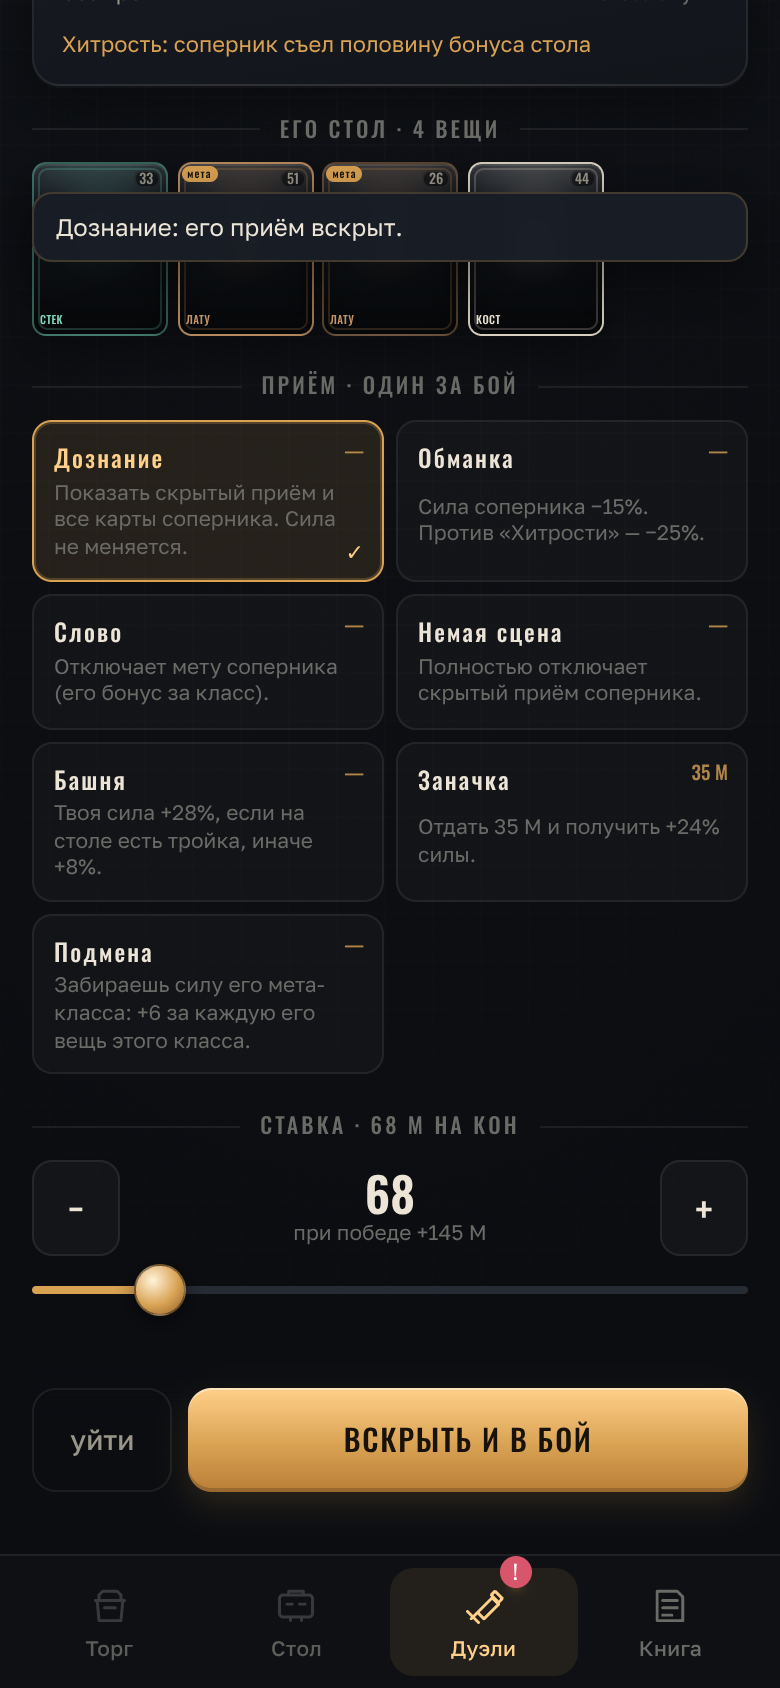
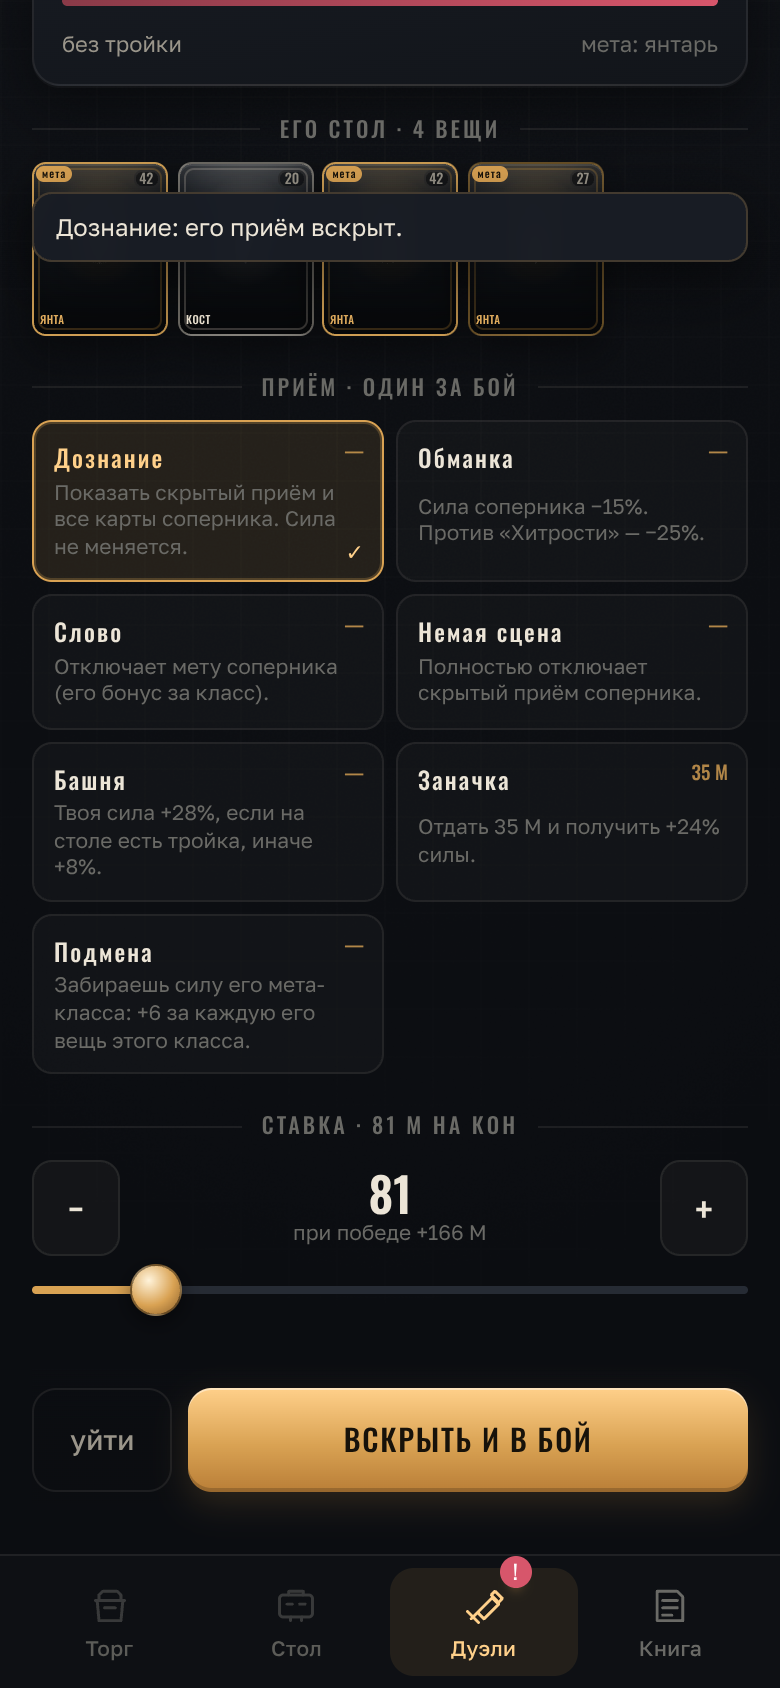
Разбор дуэли: из чего сложилась сила, урок на следующий бой

diff --git a/src/ui/app.js b/src/ui/app.js
@@ -586,7 +586,8 @@ function renderDuelStage(d) {
       range.style.setProperty('--fill', `${(range.value / Math.max(1, S.coins)) * 100}%`);
       const v = $('.betrow__v', SCREEN);
       const b = S.duel.bet;
-      v.innerHTML = `<b>${money(b)}</b><small>${b ? 'при победе +' + money(Math.round(b * 1.55 + 30 + S.day * 10)) + ' М' : 'без ставки — только репутация'}</small>`;
+      const winPay = b ? Math.round(b * 0.9 + 35 + S.day * 12) : 50;
+      v.innerHTML = `<b>${money(b)}</b><small>${b ? 'при победе +' + money(winPay) + ' М' : 'без ставки — только репутация'}</small>`;
       renderHUD();
     });
   }
@@ -609,7 +610,28 @@ function renderDuelResult(d) {
         <span class="small dim">итог по кассе</span>
         <span class="mono" style="font-size:20px;color:${res.payout >= 0 ? 'var(--green)' : 'var(--red)'}">${res.payout >= 0 ? '+' : '−'}${money(Math.abs(res.payout))} М</span>
       </div>
-      ${res.greed ? `<div class="tiny num-brass" style="margin-top:6px">Жадность: он проиграл и заплатил вдвое.</div>` : ''}
+      ${res.greed && res.win ? `<div class="tiny num-brass" style="margin-top:6px">У него был козырь «Жадность» — проиграв, он платит вдвое. Ты этим и воспользовался.</div>` : ''}
+      ${res.greed && !res.win ? `<div class="tiny faint" style="margin-top:6px">Он жадный: проиграй он — заплатил бы вдвое. Но сила была на его стороне.</div>` : ''}
+    </div>
+
+    ${res.breakdown ? `<div class="panel pad" style="margin-top:10px">
+      <div class="tiny faint" style="margin-bottom:7px">как сложилась сила</div>
+      ${res.breakdown.map((b) => `<div class="row row--between" style="padding:3px 0">
+        <span class="small dim">${esc(b[0])}</span>
+        <span class="mono small ${b[2] === 'bad' ? 'num-red' : b[2] === 'good' ? 'num-good' : 'num-brass'}">${b[1]}</span>
+      </div>`).join('')}
+    </div>` : ''}
+
+    <div class="panel pad" style="margin-top:10px">
+      <div class="tiny faint" style="margin-bottom:7px">что запомнить</div>
+      <div class="small dim">${res.win
+        ? (d.maneuver === 'nest' ? 'Гнездо бьёт почти всех, но стоит дорого — держи его на финале.'
+          : d.maneuver === 'feint' ? 'Обманка ломает «Хитрость». Против сильных соперников — лучший размен.'
+          : d.maneuver === 'tower' ? 'Башня сильна только с тройкой на столе.'
+          : 'Приём сработал. У соперника был скрытый козырь — в следующий раз попробуй «Дознание».')
+        : (d.maneuver === 'probe' ? 'Дознание силой не бьёт — оно готовит следующие бои.'
+          : 'Твой приём оказался слабее. Попробуй другой: у каждого — своя цена и свой контрприём.')}
+      </div>
     </div>
     <div class="row" style="margin-top:16px;gap:8px">
       <button class="btn grow" data-act="nextDuel">${S.duelsToday >= 3 ? 'к ночи' : 'следующий соперник'}</button>

diff --git a/src/core/engine.js b/src/core/engine.js
@@ -902,7 +902,17 @@ export function resolveDuel(s) {
   s.dayStats.duels += 1;
 
   d.stage = 'result';
-  d.result = { win, tie, mine, them, bet, payout, greed };
+  // Из чего сложилась сила: стол + мой приём (эффект = остаток после стола).
+  const me = MANEUVERS[d.maneuver] || {};
+  const tablePower = p.myTable ? p.myTable.power : 0;
+  const maneuverEffect = p.mine - tablePower;
+  const breakdown = [['твой стол', String(tablePower)]];
+  if (maneuverEffect !== 0) {
+    breakdown.push([`приём «${me.name || '—'}»`, (maneuverEffect > 0 ? '+' : '−') + Math.abs(maneuverEffect), maneuverEffect >= 0 ? 'good' : 'bad']);
+  }
+  breakdown.push(['итог твоей силы', String(mine)]);
+  breakdown.push(['его сила', String(them)]);
+  d.result = { win, tie, mine, them, bet, payout, greed, breakdown, maneuver: d.maneuver };
   return { ok: true, result: d.result };
 }
 
